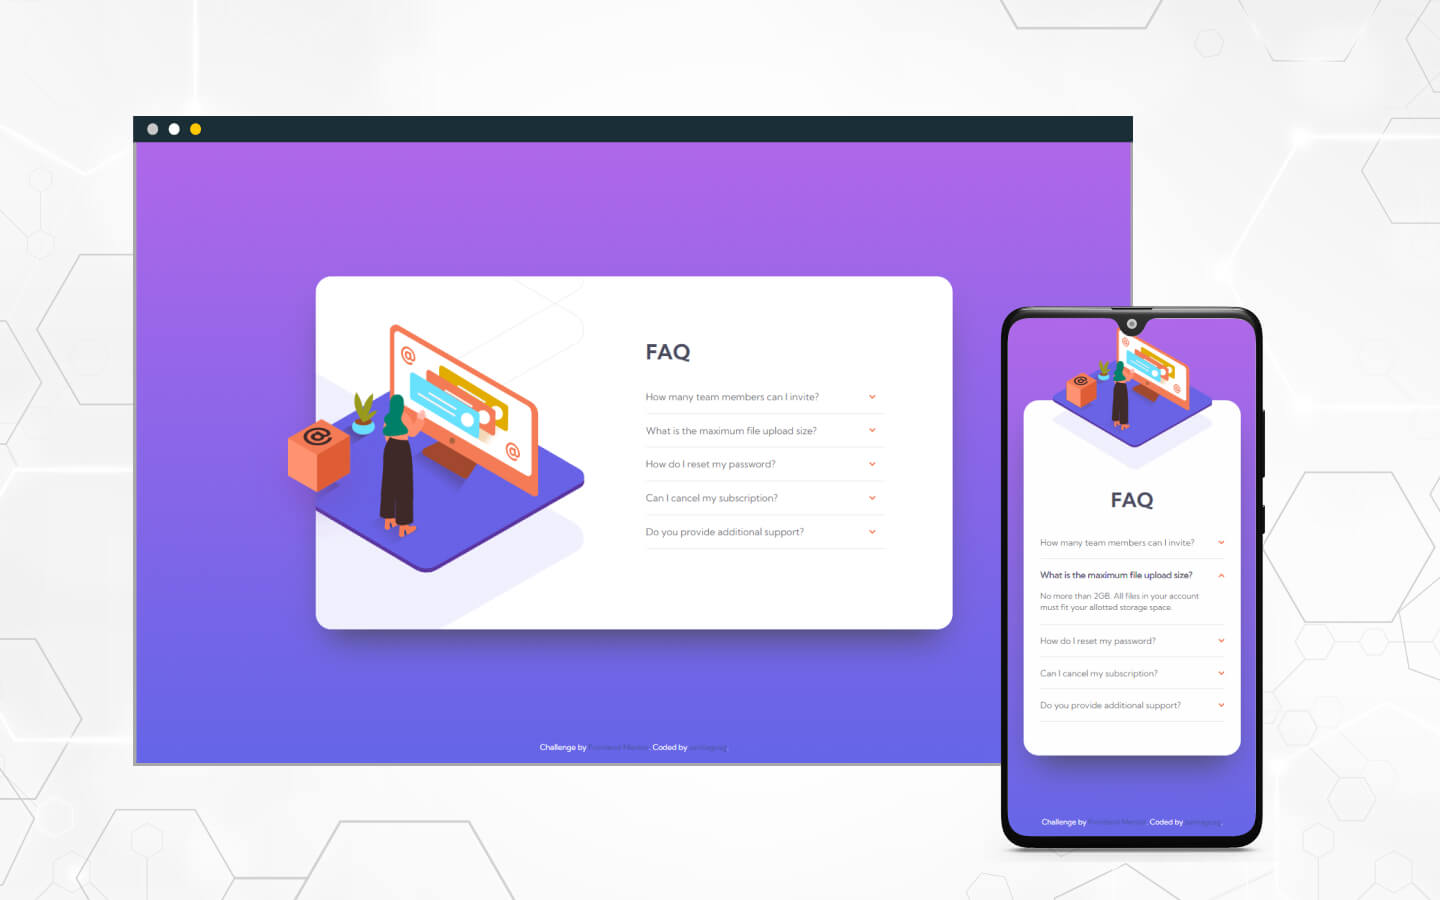
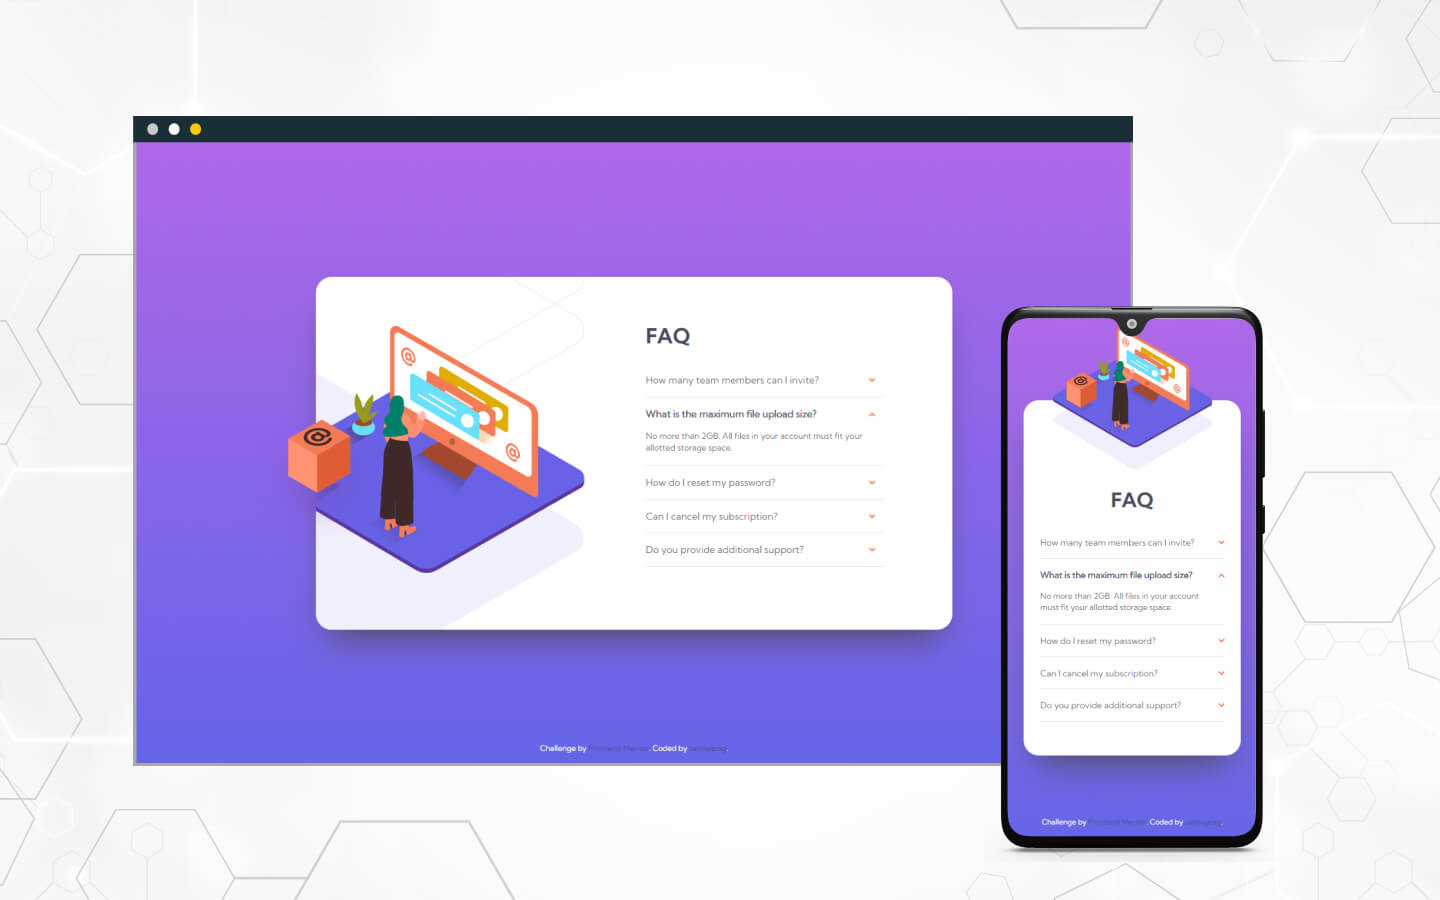
updated screenshot, and added class ...--selected to an item of accordion for presentations purposes

diff --git a/faq-accordion-card/index.html b/faq-accordion-card/index.html
@@ -56,7 +56,7 @@
             </p>
           </div>
 
-          <div class="accordion__item">
+          <div class="accordion__item accordion__item--selected">
             <!-- Heading -->
             <div class="accordion__header">
               <!-- The toggle icon -->
